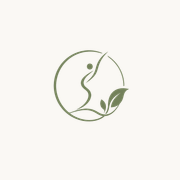
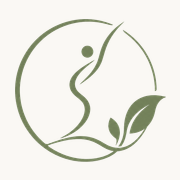
auto: Claude Code 자동 커밋 2026-07-02 19:02:14

Changed region(s): [[0.0833, 0.0833, 0.9167, 0.9167], [0.6667, 0.1667, 0.8889, 0.5], [0.6667, 0.1111, 0.6944, 0.1389]]

diff --git a/scripts/gen-app-icons.ts b/scripts/gen-app-icons.ts
@@ -14,7 +14,9 @@ const CREAM = { r: 250, g: 248, b: 244, alpha: 1 }; // #FAF8F4
 
 async function make(out: string, size: number, logoRatio: number) {
   const logoPx = Math.round(size * logoRatio);
-  const logo = await sharp(SRC).resize(logoPx, logoPx, { fit: "inside" }).png().toBuffer();
+  // trim() strips the source's transparent padding first, so logoRatio controls the
+  // VISIBLE emblem size (not the padded canvas) — otherwise raising the ratio barely grows it.
+  const logo = await sharp(SRC).trim().resize(logoPx, logoPx, { fit: "inside" }).png().toBuffer();
   await sharp({ create: { width: size, height: size, channels: 4, background: CREAM } })
     .composite([{ input: logo, gravity: "center" }])
     .png()
@@ -22,11 +24,12 @@ async function make(out: string, size: number, logoRatio: number) {
   console.log("wrote", out, `${size}px logo@${Math.round(logoRatio * 100)}%`);
 }
 
-// "any" icons — generous logo
-await make("public/brand/icon-512.png", 512, 0.8);
-await make("public/brand/icon-192.png", 192, 0.8);
-// maskable — logo inside the inner ~80% safe zone (mask can crop edges)
-await make("public/brand/maskable-512.png", 512, 0.62);
-// apple-touch-icon (iOS home screen, opaque)
-await make("public/brand/apple-touch-icon.png", 180, 0.78);
+// "any" icons — trimmed emblem fills the canvas with a small edge margin (unmasked)
+await make("public/brand/icon-512.png", 512, 0.86);
+await make("public/brand/icon-192.png", 192, 0.86);
+// maskable — emblem is round & centered, so ratio 0.7 keeps it within the circle-mask
+// safe zone (emblem radius ≈0.35 < the guaranteed r=0.4 zone).
+await make("public/brand/maskable-512.png", 512, 0.7);
+// apple-touch-icon (iOS home screen, opaque; iOS rounds the corners, round emblem is safe)
+await make("public/brand/apple-touch-icon.png", 180, 0.84);
 console.log("✅ icons generated");
